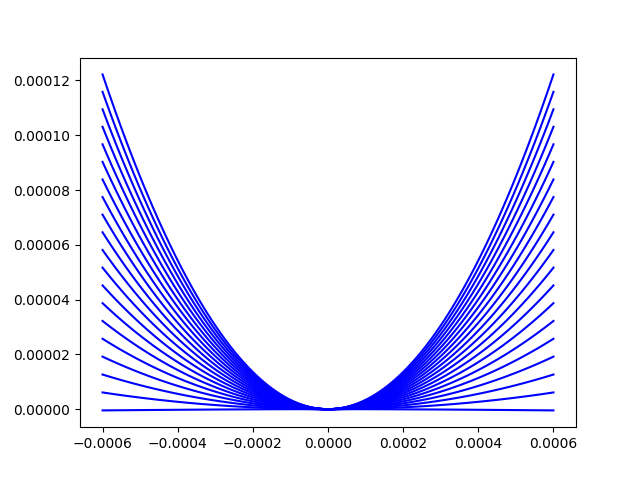
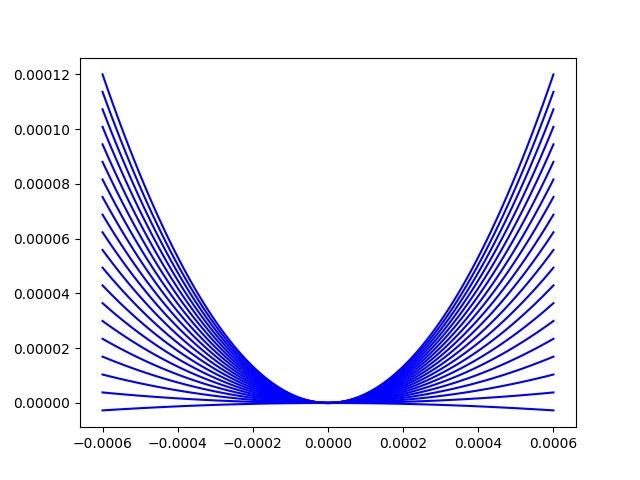
all is computed right excpet non linéarity

diff --git a/main.py b/main.py
@@ -178,7 +178,7 @@ def computeRigidityAsPositionANDPreload12(mechanism, path):
     fig = plt.figure()
     ax = fig.add_subplot(1, 1, 1)
     #close up of the 0 rigidity region
-    f = np.linspace(2.63-24*0.0008766/3, 2.63-20*0.0008766/3, 4)  # force Preload
+    f = np.linspace(2.63-89*0.0008766/3, 2.63-85*0.0008766/3, 4)  # force Preload
     x = np.linspace(rangeMin, rangeMax, 100)  # position
     for i in range(0, len(f)):
         yE = []
@@ -261,10 +261,12 @@ def main():
     negativeBladePusher = NegativeRigidityBlade(b_converter, parameters["bladeLengthTablePushing"], parameters["bladeThicknessTablePushing"], E, f_x) #250 N/m
     negativeBlade = NegativeRigidityBlade(b_converter, parameters["bladeLengthTable"], parameters["bladeThicknessTable"], E, f_x)  # 250 N/m
     ForceConverter = SpringBlade(b_converter, parameters["bladeLengthForceConverter"], parameters["bladeThicknessForceConverter"], E, f_x)  # 250 N/m
-    ZeroConverter = SpringBlade(b_wheel, parameters["bladeLengthZeroConverter"], parameters["bladeThicknessZeroConverter"], E, f_Xby8)  # 2000 N/m
-    mechanismZero = [ZeroConverter, ZeroConverter]  # reglage zero
+    ZeroConverter = SpringBlade(b_wheel, parameters["bladeLengthZeroConverter"], parameters["bladeThicknessZeroConverter"], E, f_Xby8)  # 16 N/m
+    ZeroConverterActuatorSide = SpringBlade(b_wheel, parameters["bladeLengthZeroConverter"], parameters["bladeThicknessZeroConverter"], E, f_x)  # 16 N/m
+    mechanismZero = [ZeroConverterActuatorSide, ZeroConverterActuatorSide]  # reglage zero
     mechanismKeqForce = [ForceConverter, ForceConverter] # k_eq
     mechanism = [pivotRCC, pivotRCC, wheelAnchor, wheelAnchor, negativeBladePusher, negativeBladePusher, negativeBladePusher, negativeBlade, negativeBlade , negativeBlade, ZeroConverter, ZeroConverter]
+
     print("mechanism definition :")
     for part in mechanism:
         print("")

diff --git a/report.md b/report.md
@@ -45,10 +45,16 @@ nous avons utiliser la roue pour diminué la course rensentie par la table
 donc pas +-1mN mais +-8mN
 rigidité des lames : (2 lames*ratio transformation de 8 -> 16 N/m par lame)
 
-nous avons donc tuner les parametre de notre table pour obtenir la rigidité total de 16 N/m:
-avec une table à 2 lamme de de 11.98 mm de long, 8mm de largeur et 100 um d'épaisseur
+nous avons donc essayer de tuner les parametre de notre table pour obtenir la rigidité total de 16 N/m:
+avec une table à 2 lamme  mais la longeur devenais trop grande.
 
+Nous avons donc du faire une table avec la plus grande 
+hauteur possible : 20 mm de long, 8mm de largeur et 100 um d'épaisseur
+nous avons obtenu 220 N/m.
 ![computeRigidityTableZero.png](computeRigidityTableZero.png)
+
+soit une plage de réglage de entre -110mN et 110mN
+avec une résolution de 0.04888 mN
 
 ## 3.2 rigidité 
 meme actionneur utilisé pour les deux fonction :
@@ -147,15 +153,7 @@ dants aux réglages pmax , respectivement pmin (note : vérifier bien que keq,mi
 ## 3.10 non-linéarité relative mu pour p min et max
 mu_r=0
 
-https://en.wikipedia.org/wiki/Relative_nonlinearity
-
-## 3.11
-racer sur un même graphique les fonctions F (x), Fpoly3(x) et Flin(x) afin de visualiser la non-
-linéarité pour pmin et pmax ;
-
-## 3.12 Rp résolution a pmin et p_max
-RF(keq,min) : résolution du capteur de force avec son réglage le moins rigide
-
+## 3.12 résolution
 ![RigidityAsPositionANDPreload12.png](RigidityAsPositionANDPreload12.png)
 
 RigidityPmin=0.2 N/m

diff --git a/README.md b/README.md
@@ -4,5 +4,7 @@ of an adjustable stiffness force sensor and optimise
 it's parameter to get the best resolution possible
 
 ![img_5.png](img_5.png)
+you will find the parameter in the excel Sheet Settings.xlsx
+to import it easily into Autodesk inventor and thus having a parametric desing
 
 after running the code, report.md is updated with the result
